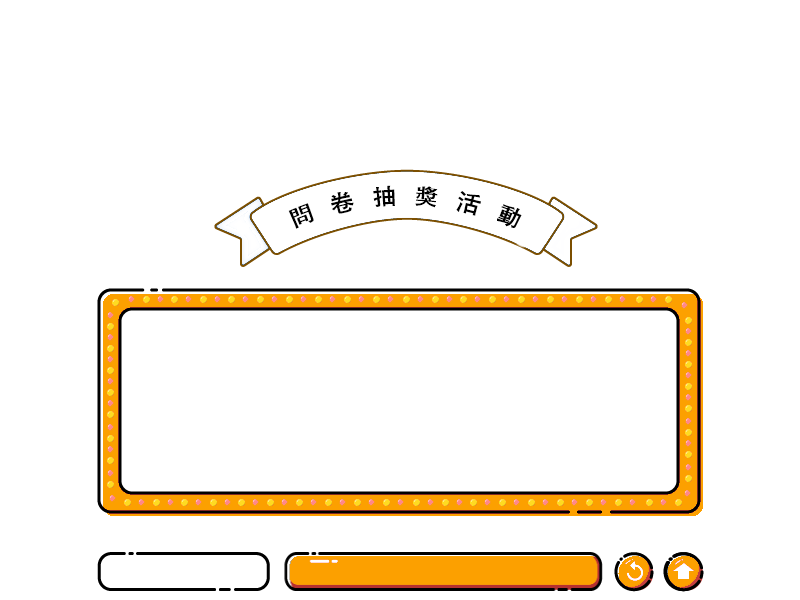
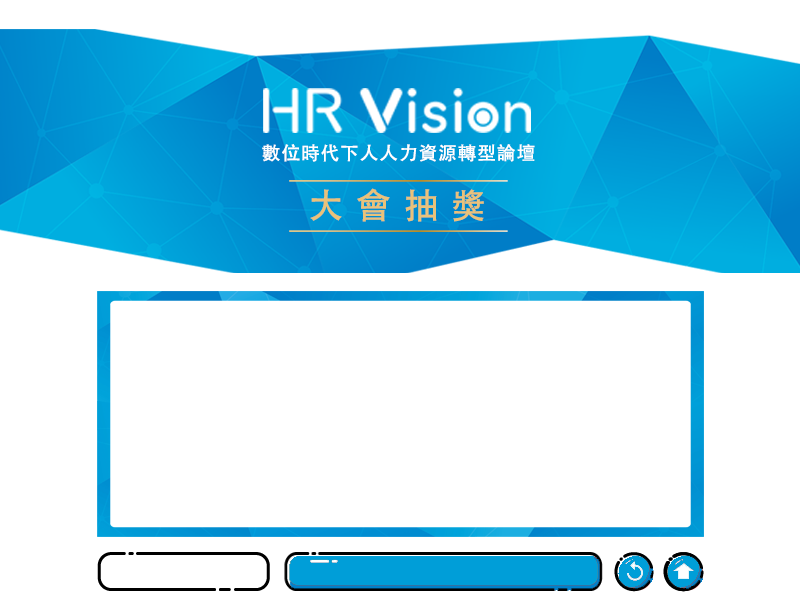
Modify bg and main color for Carol's requesting.

diff --git a/css/style.css b/css/style.css
@@ -65,7 +65,7 @@ html {
 .Confirm > div > div button {
     display: inline-block;
     margin: 2rem 1rem 0 1rem;
-    background: #FFC21C;
+    background: #009ED8;
     padding: 1rem 5rem;
     font-size: 1.2rem;
     color: #fff;
@@ -112,7 +112,7 @@ html {
 .Import > div > div button {
     display: inline-block;
     margin: 2rem 1rem 0 1rem;
-    background: #FFC21C;
+    background: #009ED8;
     padding: 1rem 5rem;
     font-size: 1.2rem;
     color: #fff;
@@ -200,7 +200,7 @@ html {
 }
 
 body {
-    background: #61a8f8;
+    background: #ffffff;
     height: 100%;
     width: 100%;
     margin: 0;

diff --git a/index.html b/index.html
@@ -35,9 +35,10 @@
 
 </div>
 <div id="bgLuckyDrawEnd"></div>
+<!--
 <div id="iconDiv" class="animated fadeIn"><span><img src="css/img/icon/01.png"> </span><span><img
         src="css/img/icon/02.png"> </span><span><img src="css/img/icon/03.png"> </span><span><img
         src="css/img/icon/04.png"> </span><span><img src="css/img/icon/05.png"> </span><span><img
-        src="css/img/icon/06.png"> </span></div>
+        src="css/img/icon/06.png"> </span></div>-->
 </body>
 </html>

diff --git a/js/index.js b/js/index.js
@@ -10,7 +10,7 @@ var times = 1;//抽奖次数,如果不是第一次，不加粗显示领导姓名
 
 
 $(function () {
-    iconAnimation();
+    //iconAnimation();
     //开始抽奖
     $("#btnStart").text("開始"+"　（共"+remainPerson.length+"人）");//设置按钮文本为开始
     $("#btnStart").on("click", function () {
